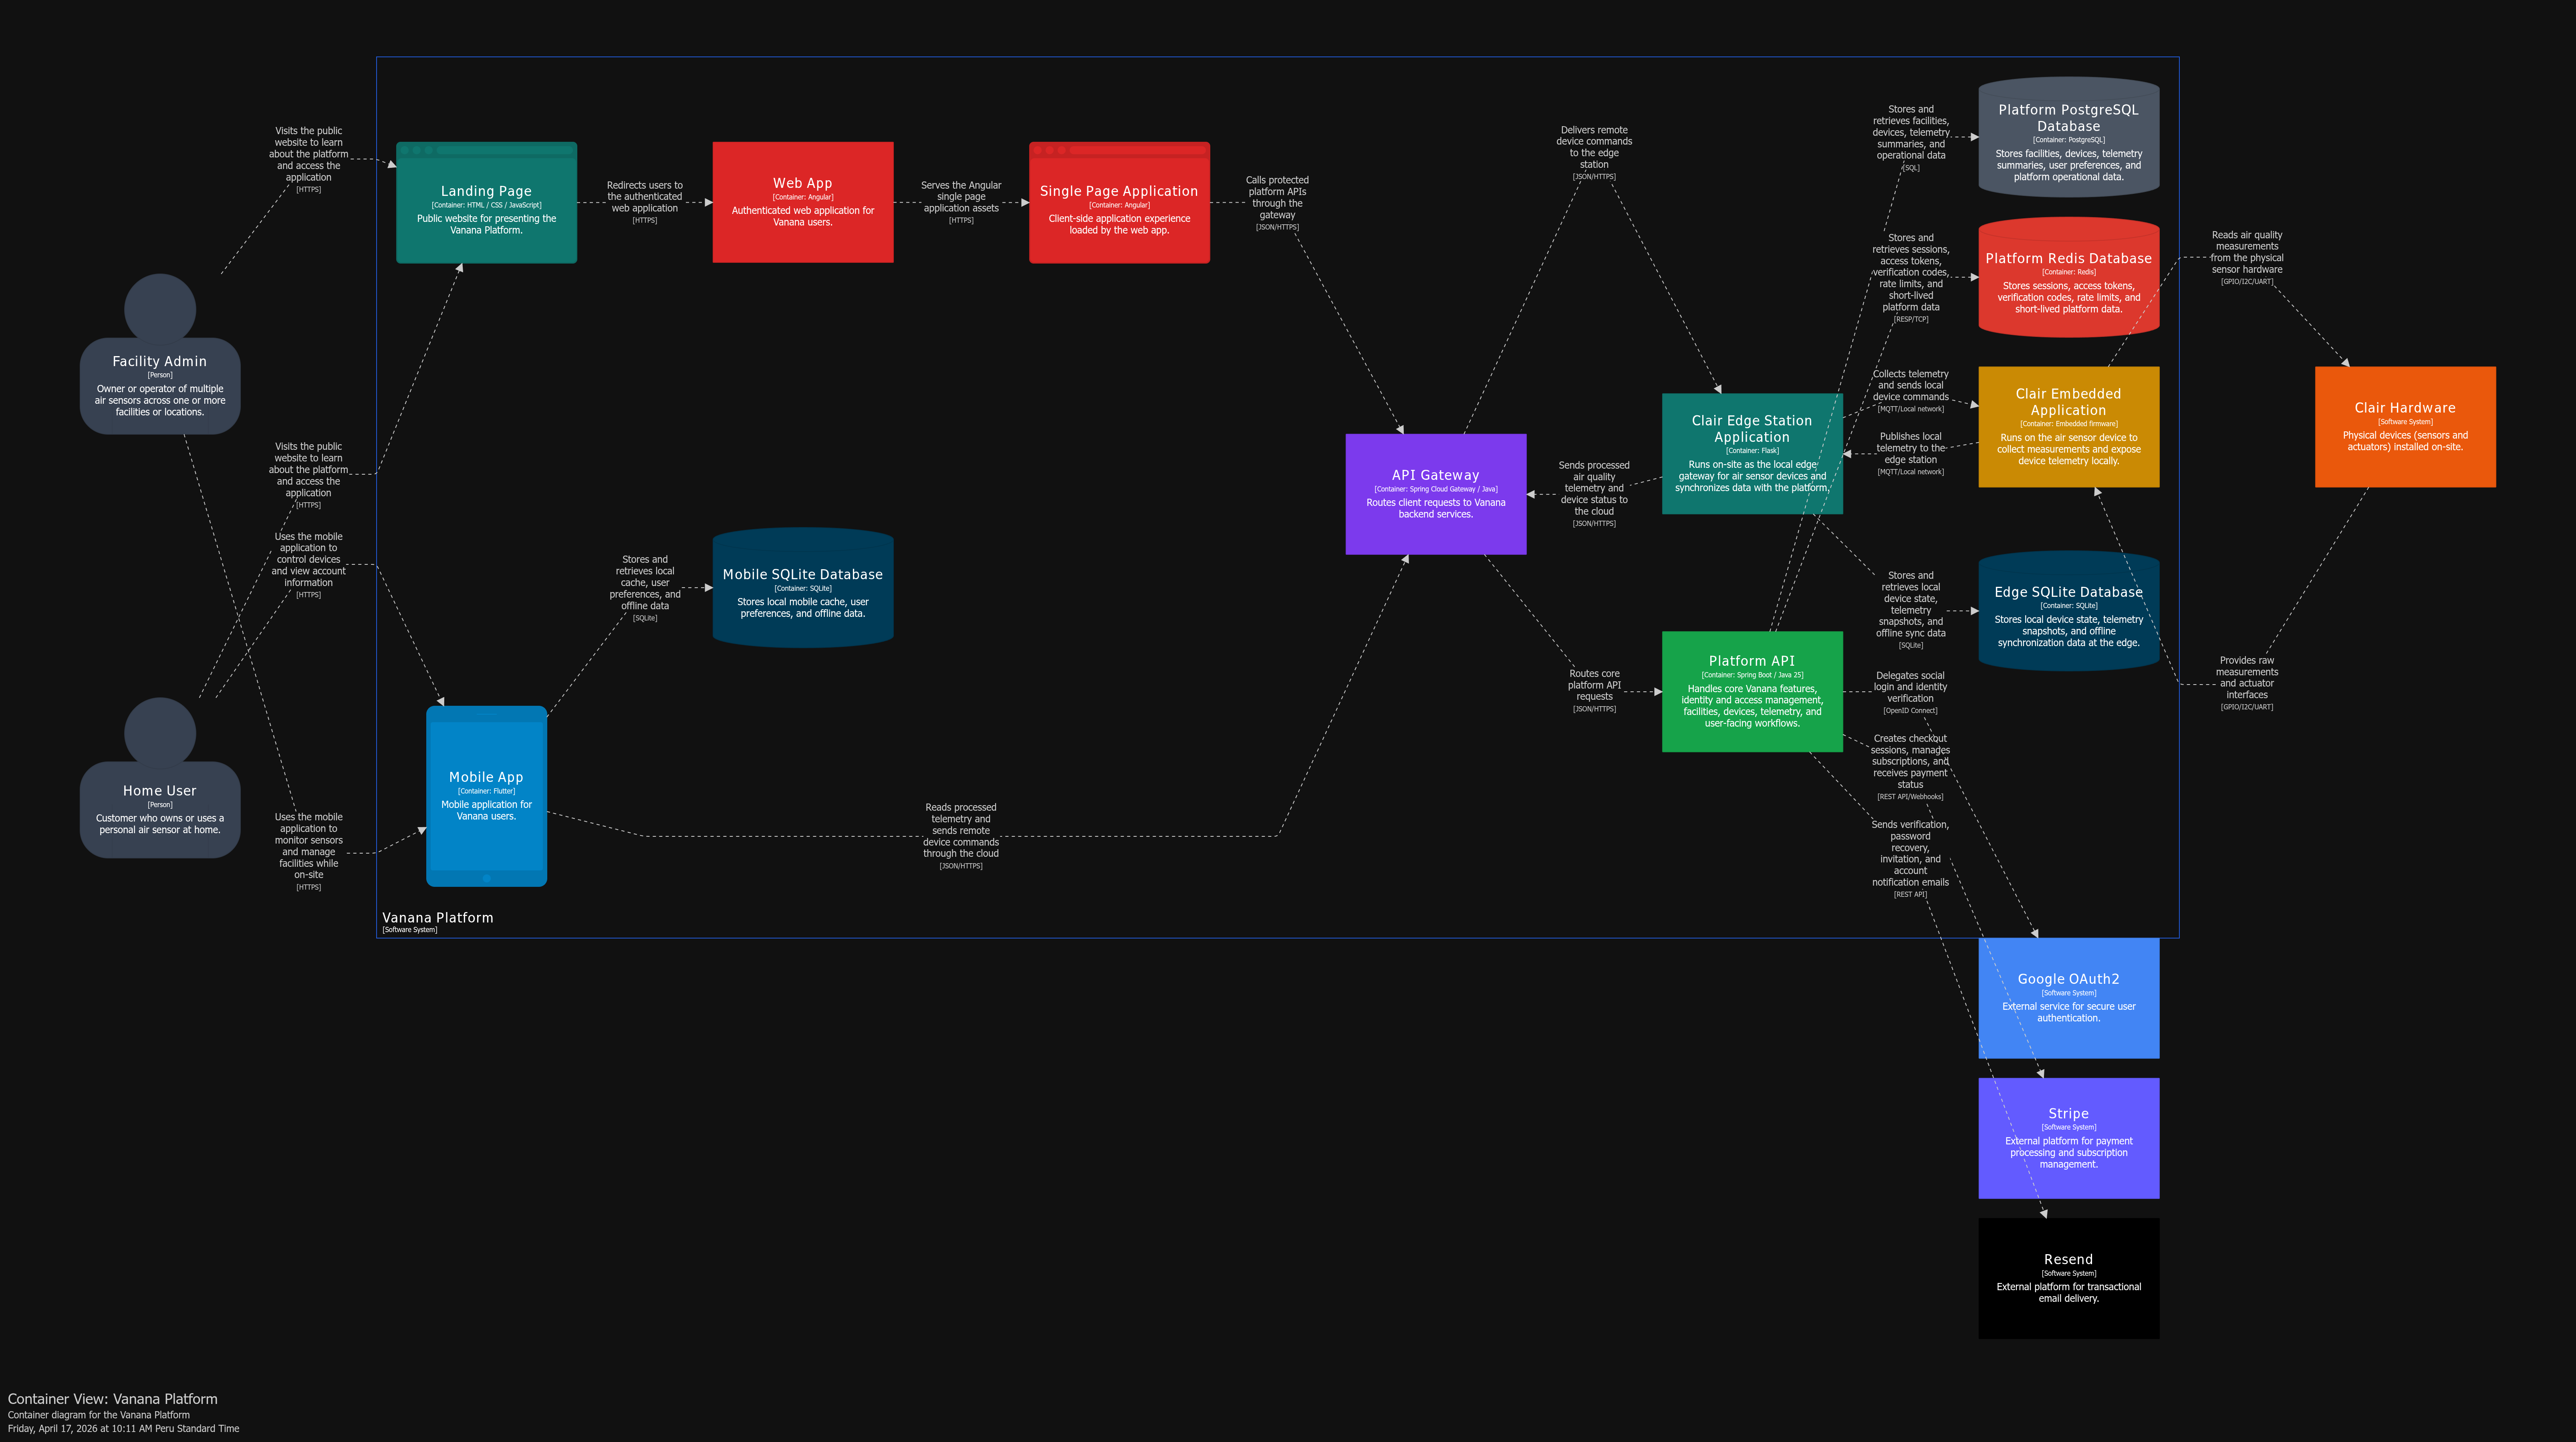
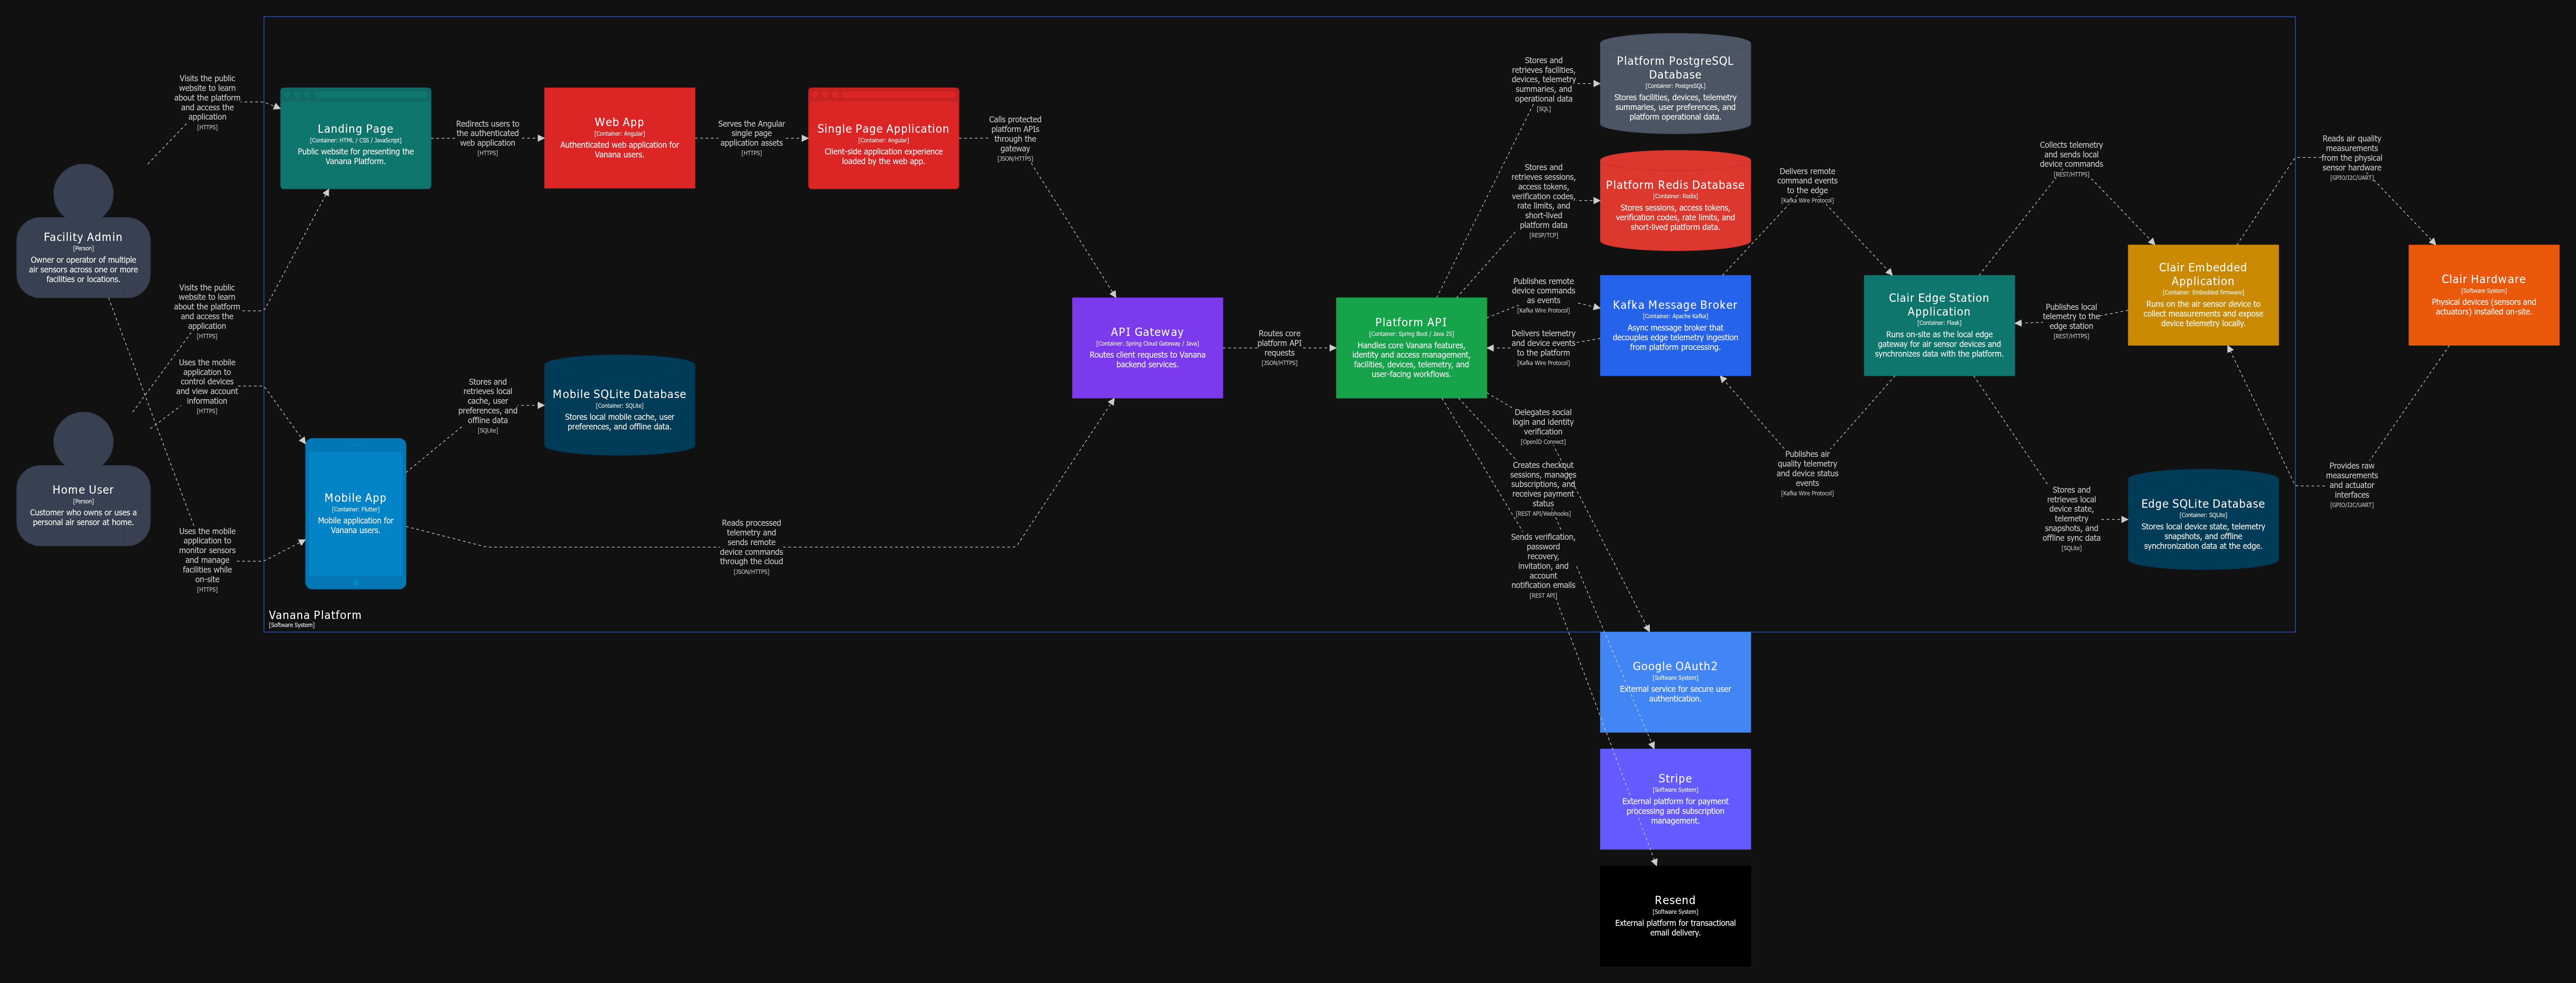
Fix image format in chapter 6 and update cover date to June 2026

diff --git a/chapters/chapter6.md b/chapters/chapter6.md
@@ -94,7 +94,7 @@ En el ámbito móvil, la Mobile Application desarrollada en Flutter se distribuy
 
 La solución integra una capa de computación perimetral (Edge) y aplicaciones embebidas para la gestión directa del hardware. La Edge Station se despliega en nodos físicos locales utilizando Python y Flask, funcionando como un punto intermedio de procesamiento que deduplica y sincroniza la información capturada. Por otro lado, la aplicación embebida en C++ se distribuye como firmware dentro de los sensores físicos de Clair Hardware, permitiendo la captura de métricas ambientales en tiempo real. El ecosistema se complementa con servicios SaaS para autenticación mediante Google OAuth2, procesamiento de pagos con Stripe y mensajería transaccional a través de Resend.
 
-<img src="../assets/c4-diagrams/deploy/Development-dark.svg" alt="deploy-diagram">
+<img src="../assets/c4-diagrams/deploy/Development-dark.png" alt="deploy-diagram">
 
 
 # 6.2. Landing Page, Services & Applications Implementation.

diff --git a/cover.md b/cover.md
@@ -35,6 +35,6 @@
   <p style="margin: 4px 0;"><code>U202121325</code> - Macavilca Quispe, Ian</p>
   <p style="margin: 4px 0;"><code>u202119095</code> - Paiva Quispe, Josue Gonzalo</p>
 
-  <p style="margin-top: 25px;"><strong>Lima - Mayo 2026</strong></p>
+  <p style="margin-top: 25px;"><strong>Lima - Junio 2026</strong></p>
 
 </div>